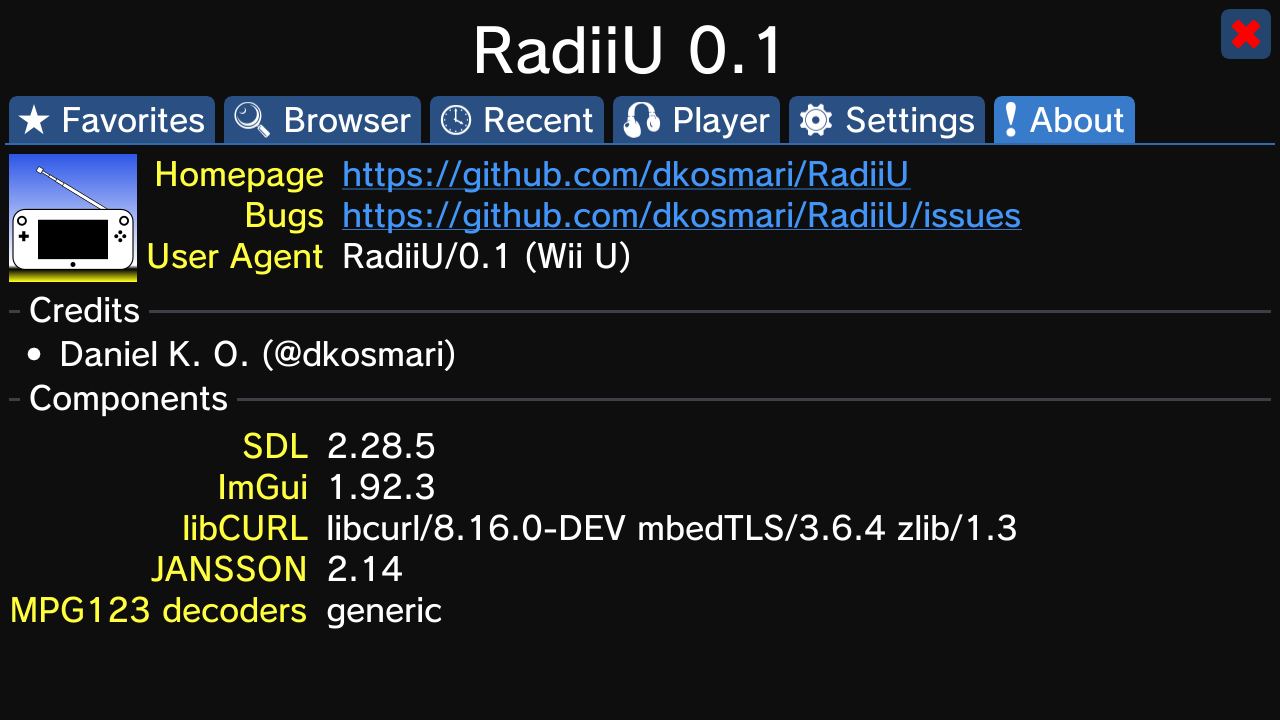
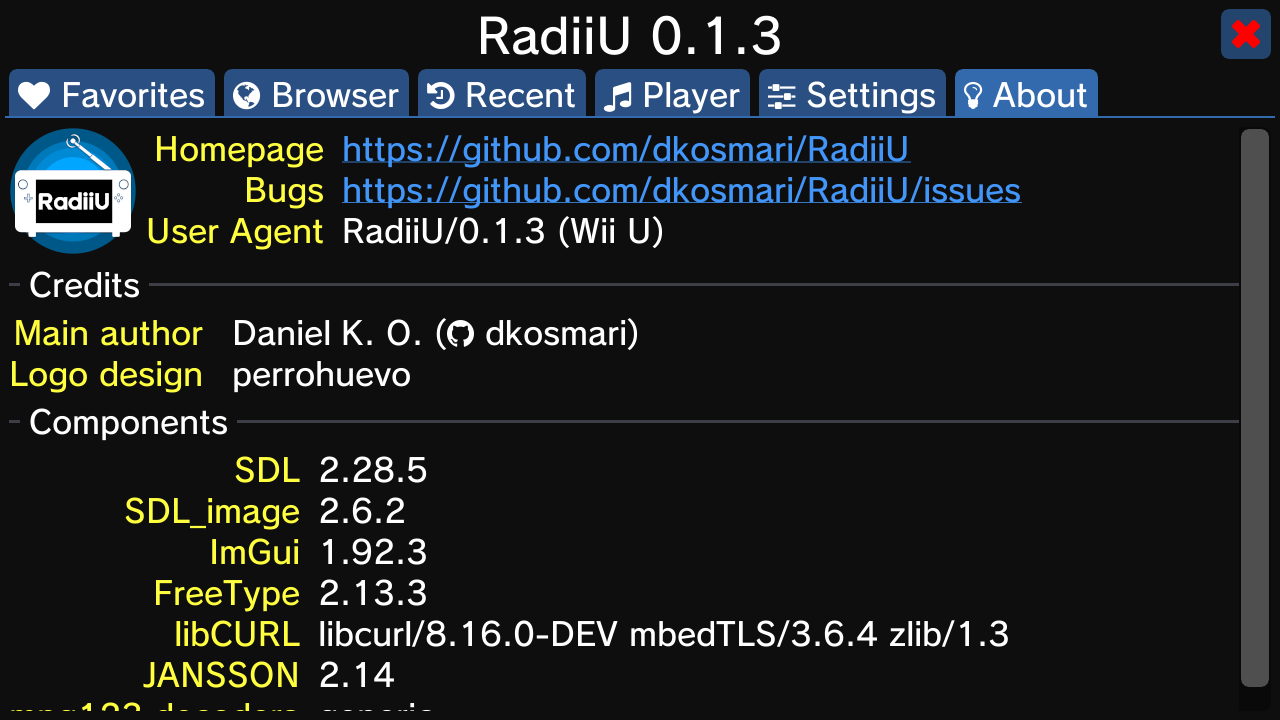
- Bumped version to 0.1.3 - Updated screenshots.

Changed region(s): [[0.0, 0.0, 1.0, 0.9778], [0.0625, 0.9778, 0.125, 1.0]]

diff --git a/src/App.cpp b/src/App.cpp
@@ -287,7 +287,7 @@ namespace App {
         SDL_SetHint(SDL_HINT_RENDER_SCALE_QUALITY, "1");
         SDL_SetHint(SDL_HINT_RENDER_LINE_METHOD, "2");
 
-        res->window.create(PACKAGE,
+        res->window.create(PACKAGE_STRING,
                            sdl::window::pos_centered,
                            {1280, 720},
                            0);
@@ -411,7 +411,7 @@ namespace App {
 
         ImGui::SetNextWindowPos({0, 0}, ImGuiCond_Always);
         ImGui::SetNextWindowSize(ImGui::ToVec2(res->window.get_size()), ImGuiCond_Always);
-        if (ImGui::Begin("##MainWindow",
+        if (ImGui::Begin(PACKAGE_STRING,
                          nullptr,
                          ImGuiWindowFlags_NoTitleBar |
                          ImGuiWindowFlags_NoMove |
